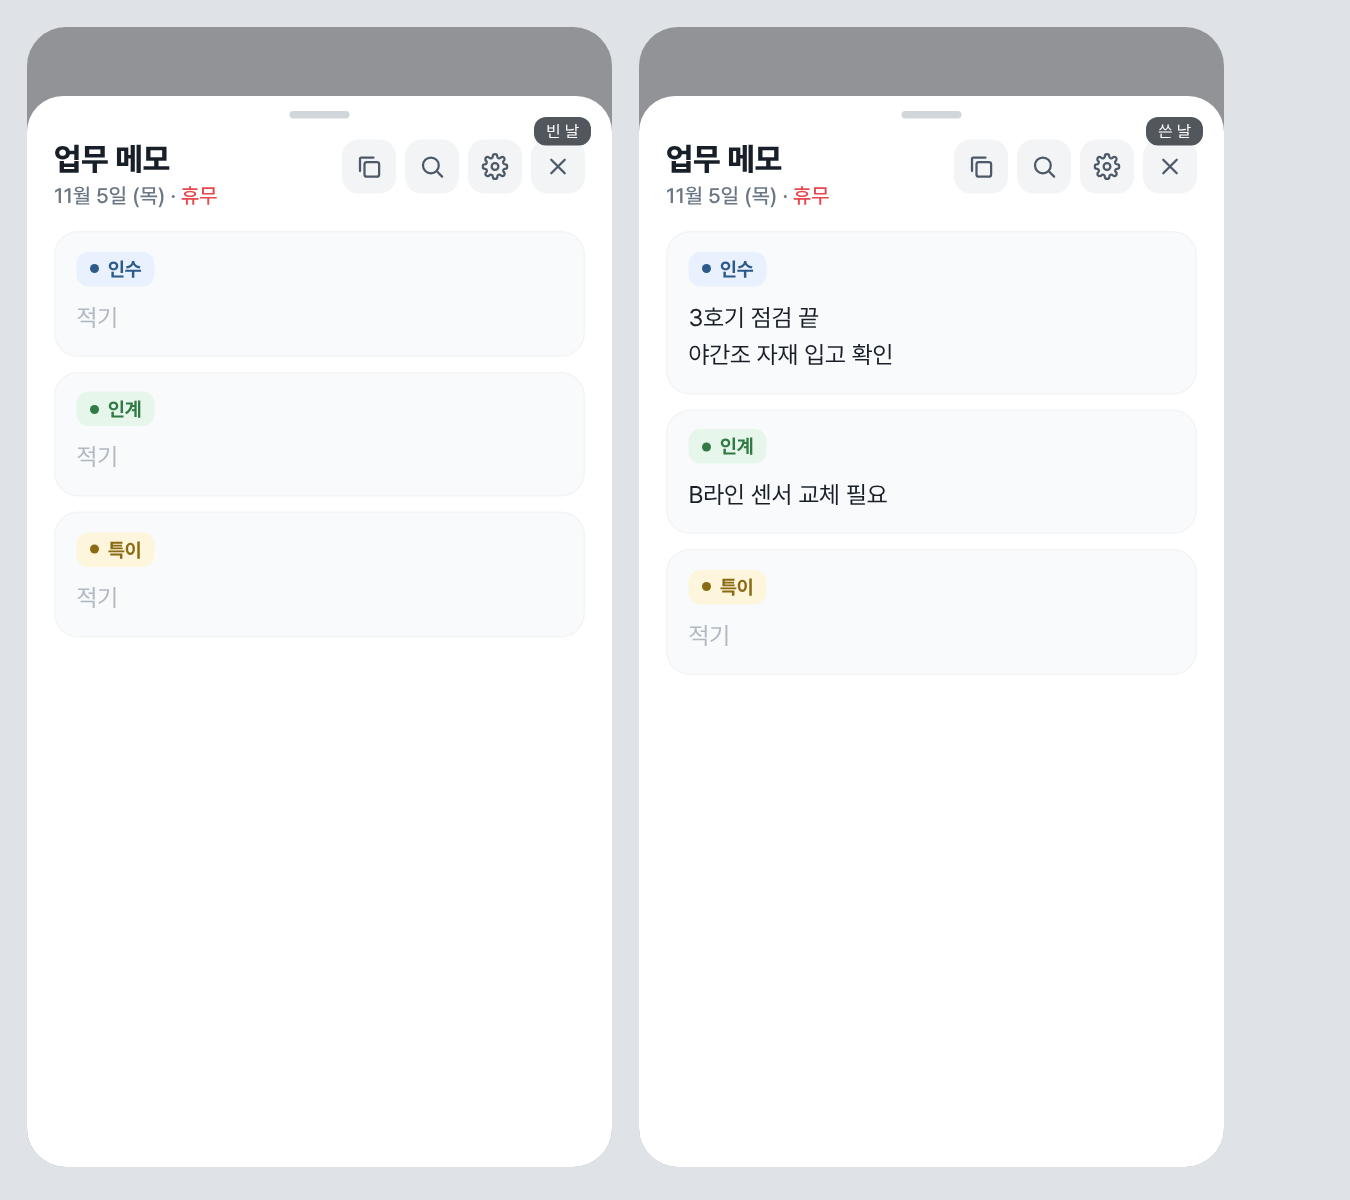
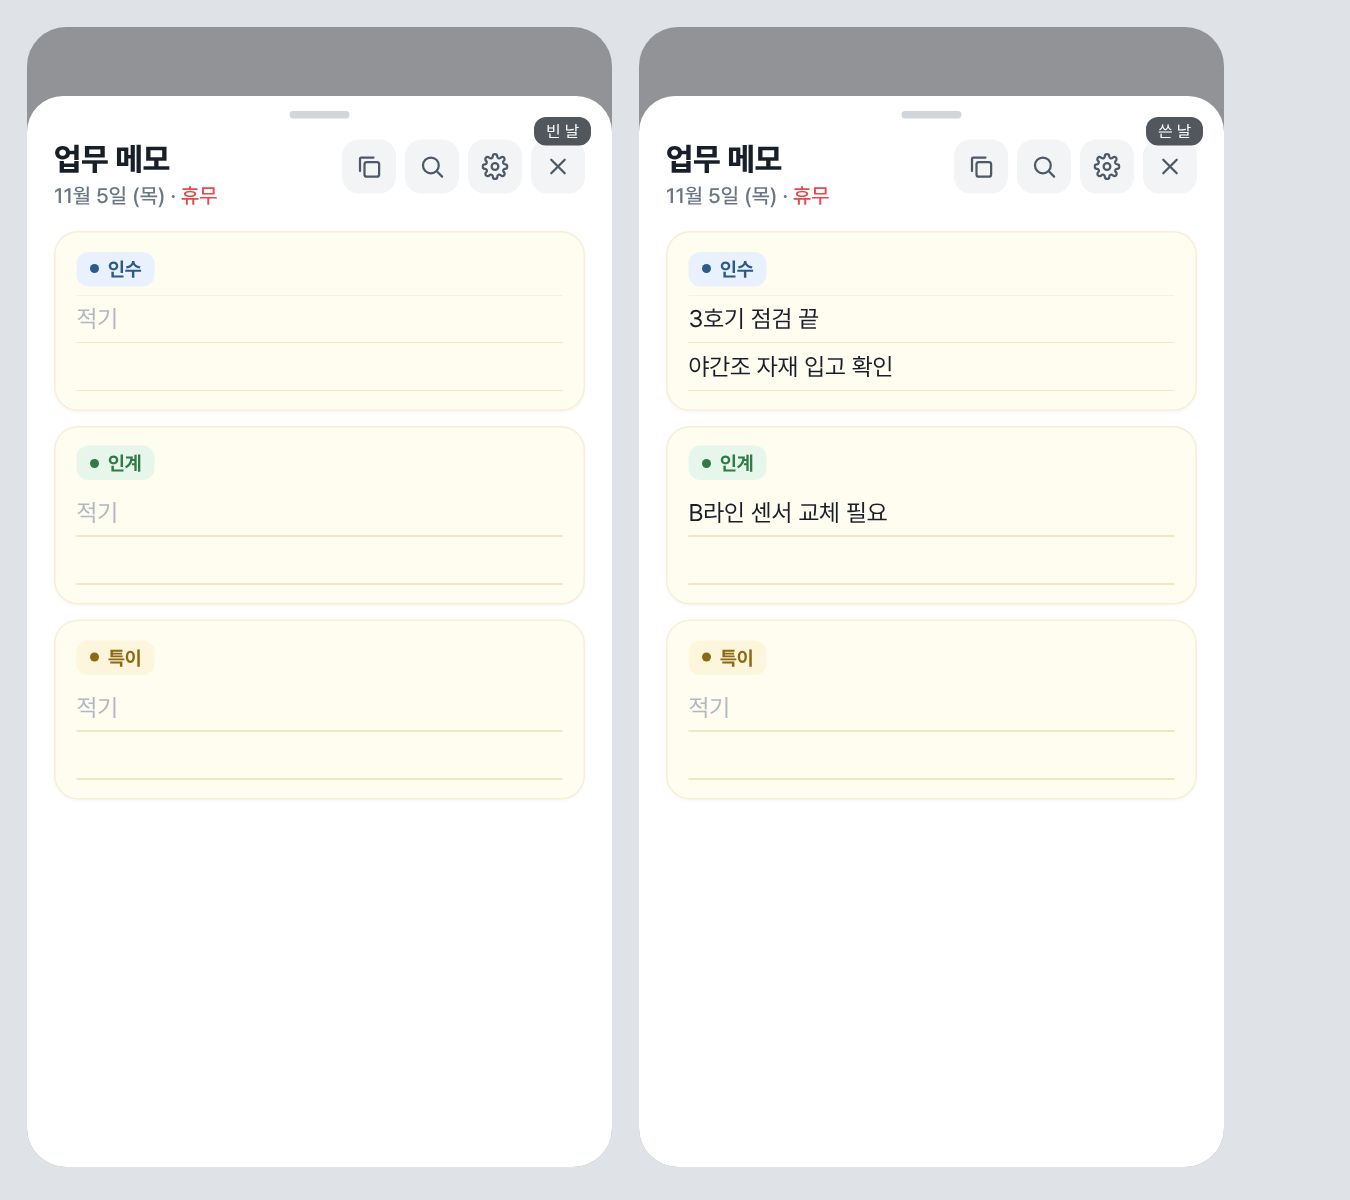
design: 업무 메모 시안 — 연한 노란 메모 노트
Claude-Session: https://claude.ai/code/session_01JTBnEvptp151JygSjZNCTX

diff --git a/design/wlog/v1.html b/design/wlog/v1.html
@@ -39,9 +39,9 @@ svg{width:20px;height:20px;fill:none;stroke:currentColor;stroke-width:2;stroke-l
 .top{display:flex;align-items:flex-start;justify-content:space-between;margin-bottom:16px}
 .tt{font-size:21px;font-weight:800}.dd{font-size:14px;color:#6b7684;font-weight:500;margin-top:4px}
 .tbs{display:flex;gap:6px}.tb{width:36px;height:36px;border-radius:11px;background:#f2f4f6;display:flex;align-items:center;justify-content:center;color:#4e5968}.tb svg{width:18px;height:18px}
-.bk{background:#f9fafb;border-radius:16px;padding:12px 14px;margin-bottom:10px;border:1px solid #f2f4f6}
+.bk{background:#fffcf0;border-radius:16px;padding:12px 14px;margin-bottom:10px;border:1px solid #f6efd6;box-shadow:0 1px 2px rgba(150,120,30,.05)}
 .lb{display:inline-flex;align-items:center;gap:6px;font-size:13px;font-weight:700;border-radius:8px;padding:4px 9px}.lb i{width:6px;height:6px;border-radius:50%}
-.tx{font-size:16px;line-height:1.6;margin-top:8px;min-height:26px;white-space:pre-line}.ph2{color:#b0b8c1}
+.tx{font-size:16px;line-height:32px;margin-top:6px;min-height:64px;white-space:pre-line;background-image:repeating-linear-gradient(transparent 0 31px,#f1e7c4 31px 32px);background-position:0 0}.ph2{color:#b0b8c1}
 </style></head><body><div class="ph" style="background:rgba(0,0,0,.35)"><div class="sh2"><div class="grab"></div>
 <div class="top"><div><div class="tt">업무 메모</div><div class="dd">11월 5일 (목) · <span style="color:#e5484d">휴무</span></div></div><div class="tbs"><div class="tb"><svg viewBox="0 0 24 24"><rect x="8" y="8" width="13" height="13" rx="2"/><path d="M4 16V5a1 1 0 0 1 1-1h11"/></svg></div><div class="tb"><svg viewBox="0 0 24 24"><circle cx="11" cy="11" r="7"/><path d="m21 21-4.3-4.3"/></svg></div><div class="tb"><svg viewBox="0 0 24 24"><circle cx="12" cy="12" r="3"/><path d="M19.4 15a1.7 1.7 0 0 0 .3 1.8l.1.1a2 2 0 1 1-2.8 2.8l-.1-.1a1.7 1.7 0 0 0-1.8-.3 1.7 1.7 0 0 0-1 1.5V21a2 2 0 1 1-4 0v-.1a1.7 1.7 0 0 0-1.1-1.5 1.7 1.7 0 0 0-1.8.3l-.1.1a2 2 0 1 1-2.8-2.8l.1-.1a1.7 1.7 0 0 0 .3-1.8 1.7 1.7 0 0 0-1.5-1H3a2 2 0 1 1 0-4h.1a1.7 1.7 0 0 0 1.5-1.1 1.7 1.7 0 0 0-.3-1.8l-.1-.1a2 2 0 1 1 2.8-2.8l.1.1a1.7 1.7 0 0 0 1.8.3H9a1.7 1.7 0 0 0 1-1.5V3a2 2 0 1 1 4 0v.1a1.7 1.7 0 0 0 1 1.5 1.7 1.7 0 0 0 1.8-.3l.1-.1a2 2 0 1 1 2.8 2.8l-.1.1a1.7 1.7 0 0 0-.3 1.8V9a1.7 1.7 0 0 0 1.5 1H21a2 2 0 1 1 0 4h-.1a1.7 1.7 0 0 0-1.5 1z"/></svg></div><div class="tb"><svg viewBox="0 0 24 24"><path d="M18 6 6 18M6 6l12 12"/></svg></div></div></div>
 <div class="bk"><div class="lb" style="background:#e8f1fd;color:#2c5a8a"><i style="background:#2c5a8a"></i>인수</div><div class="tx ph2">적기</div></div><div class="bk"><div class="lb" style="background:#e6f6ea;color:#2f7a45"><i style="background:#2f7a45"></i>인계</div><div class="tx ph2">적기</div></div><div class="bk"><div class="lb" style="background:#fdf5dc;color:#8a6a12"><i style="background:#8a6a12"></i>특이</div><div class="tx ph2">적기</div></div></div><div class="tag">빈 날</div></div><div class="ph" style="background:rgba(0,0,0,.35)"><div class="sh2"><div class="grab"></div>

diff --git a/docs/TODO.md b/docs/TODO.md
@@ -2560,5 +2560,5 @@
 ## 업무 메모 창 새 모양 (사용자 2026-11-16 · 시안 design/wlog/v1.png)
 - 제목 📋 · ✏ 빼고 "업무 메모"(일지 이름) 한 줄 · 아래 날짜 · 근무(휴무 빨강) · "쓰는 대로 저장돼요" 빼기
 - 오른쪽 버튼 4개(복사 · 찾기 · 설정 · 닫기) = 회색 칸 선 아이콘 (🔍 컬러 이모지 빼기)
-- 칸: 노란 줄 노트 → 연회색 카드 + 색 이름표(점 + 인수/인계/특이) · 빈 칸은 "적기" 연한 글씨 · 쓴 글은 그대로 여러 줄
+- 칸: 아주 연한 노란 카드(#fffcf0 · 테두리 #f6efd6) + 연한 줄(#f1e7c4 · 32px 간격) 메모 노트 느낌 + 색 이름표(점 + 인수/인계/특이) · 빈 칸은 "적기" 연한 글씨 · 쓴 글은 그대로 여러 줄
 - 고칠 것(버그): 스크린샷에서 창 왼쪽이 잘려 보임(제목 · 날짜 첫 글자) → 만들 때 가로 넘침 확인
